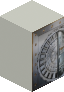
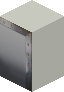
Working on rendering the vault door

diff --git a/src/graphics/GameCanvas.java b/src/graphics/GameCanvas.java
@@ -76,7 +76,7 @@ public class GameCanvas extends Canvas{
 	private String host = "localhost";
 	
 	private double translateX, translateY;
-	private double zoom = 60;
+	private double zoom = 200;
 	private int zooming = 0;	//0 = Not zooming, 1 = zooming in, 2 = zooming out
 	private String[] directions = {"N", "E", "S", "W"};
 	private int direction = 0;
@@ -111,7 +111,7 @@ public class GameCanvas extends Canvas{
 	 * Sets up everything in the room
 	 */
 	public void initialize(){
-		this.currentPlayer.setLocation(new Point(1, 1));		
+		this.currentPlayer.setLocation(new Point(5, 20));		
 		fileReader data = new fileReader("10");		
 		Room currentRoom = new Room("testRoom", data.getWidth(), data.getHeight(), players);
 		

diff --git a/src/graphics/GraphicsUpdater.java b/src/graphics/GraphicsUpdater.java
@@ -7,7 +7,7 @@ package graphics;
  */
 public class GraphicsUpdater extends Thread{
 	private GameCanvas display;
-	private final int DELAY = 15; //delay between updates
+	private final int DELAY = 200; //delay between updates
 	
 	public GraphicsUpdater(GameCanvas cv){
 		display = cv;

diff --git a/src/data/fileReader.java b/src/data/fileReader.java
@@ -76,9 +76,6 @@ public class fileReader {
 					else if(value.equals("9")){
 						tiles[lineNum][rowNum] = "vaultWall3";
 					}
-					else if(value.equals("10")){
-						tiles[lineNum][rowNum] = "vaultDoor";
-					}
 					else{
 						throw new ArrayStoreException();
 					}
